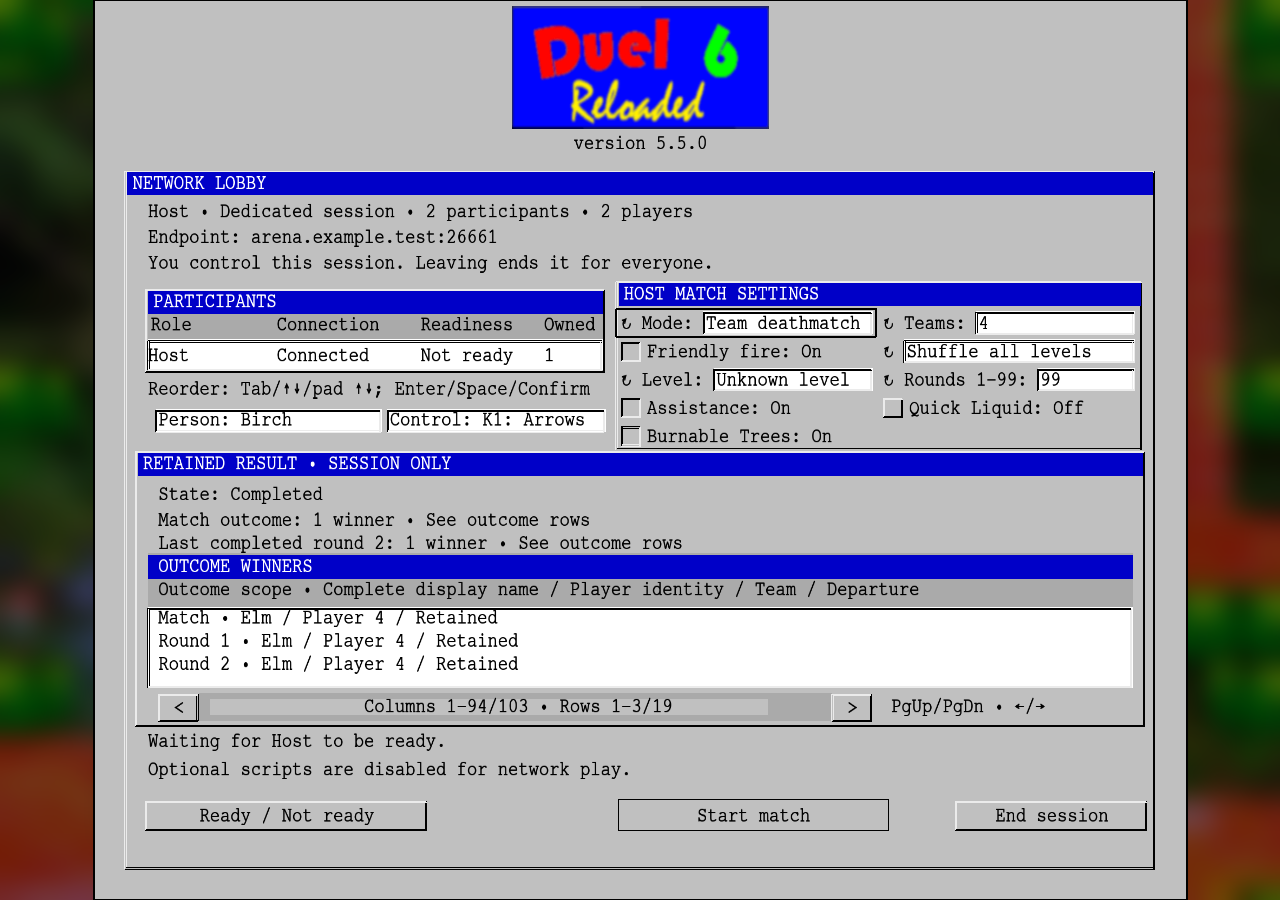
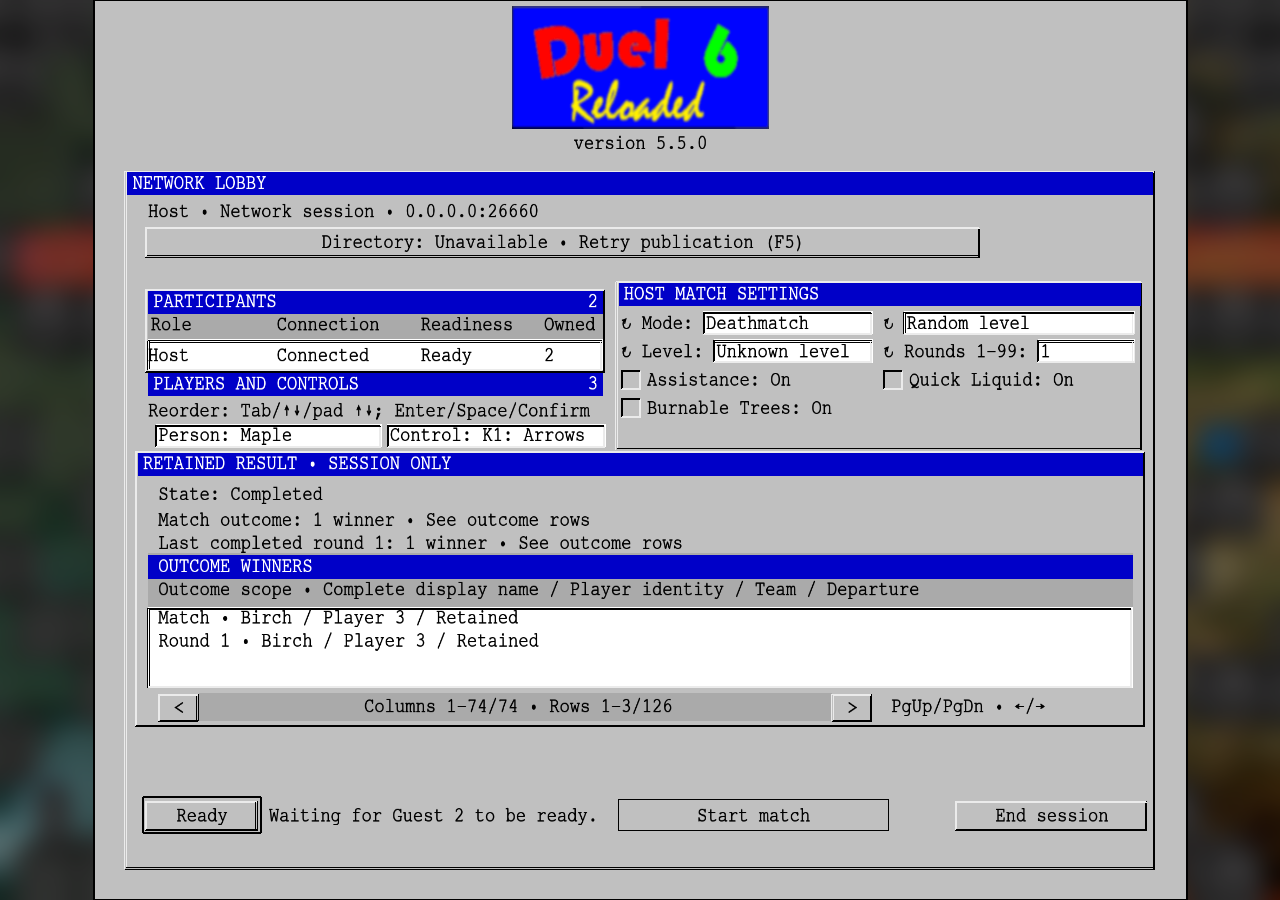
Integrate approved network lobby screenshots and assessment

diff --git a/docs/design/screenshots/README.md b/docs/design/screenshots/README.md
@@ -1464,7 +1464,7 @@ For each eventual image, supply the real nightly artifact identity and immutable
 
 This section is the sole current capture matrix for the NET-01 through NET-10 presentation unification. It supersedes every earlier network conformance claim in this file and the [legacy manifest](../../screenshots/README.md) for these affected wireframes. The older packets below remain historical references with their original hashes. They do not prove the unified presentation. No local-play representative is invalidated unless implementation changes its presentation source.
 
-**Current conformance: the five disabled-caption replacements conform under the [current assessment](#disabled-caption-current-assessment). Other representatives retain their existing scoped acceptance and capture lineage; native Mac conformance remains deferred and unassessed.** The [prior assessment](#current-native-visual-assessment) retains its historical source identities; it does not identify the five replacement bytes. The approved [shared visual baseline](../../design.md#unified-network-presentation) and [screen index](../README.md#screen-specifications) remain authoritative. The current matrix has 18 wireframes; NET-02-LA and NET-02-LE add popup variants without new functional screen identities. The former 16-row count in legacy UX-NET-AC-08 describes historical coverage, not a waiver for these two variants.
+**Current conformance:** The [NET-04 lobby refresh assessment](#net-04-lobby-refresh-current-assessment) identifies the current SS-018, SS-025, and constrained Guest originals. All other representatives retain their scoped acceptance and capture lineage, including the unaffected [disabled-caption replacements](#disabled-caption-current-assessment). Native Mac conformance remains deferred and unassessed. The [prior assessment](#current-native-visual-assessment) retains its historical source identities. The approved [shared visual baseline](../../design.md#unified-network-presentation) and [screen index](../README.md#screen-specifications) remain authoritative. The current matrix has 18 wireframes; NET-02-LA and NET-02-LE add popup variants without new functional screen identities. The former 16-row count in legacy UX-NET-AC-08 describes historical coverage, not a waiver for these two variants.
 
 ### Fixed criteria and scoped correction
 
@@ -1520,6 +1520,19 @@ All images are original lossless full-client 1280 × 900 PNGs at (0,0), with no 
[1 lines of base64/hex data omitted]
 
 Team supplied source closure and functional closure before capture, with successful Docker compilation and 54/54 routine runtime cases. These are supporting source-tied results, not UX-executed tests or independent QA. Stills do not prove activation, traversal, scrolling or temporal behavior. Disabled loading Refresh/Join selected, closed/stale admission blocking, non-activation, retained focus and bounds remain supported by focused checks, not extra images. Canonical match/round/tick IDs and the completed match's exact level/mirror were not logged; this is nonblocking for the supplied menu scope. No new other-viewport, physical-controller, native Mac or live cross-OS acceptance is claimed; existing deferrals remain unchanged.
+
+### NET-04 lobby refresh current assessment
+
+**Visual gate: satisfied** for candidate `1c25fb1c129f48d60502b64decfb25aed1d6059b` against the [lobby screen contract](../../screens/network-lobby.md) approved at `2d06187ab2c54dc4feee6c502bd911df6c4acfe2`, the unchanged candidate [NET-04 UX contract](../screens/NET-04.md), and its [NET-04](../wireframes/NET-04/NET-04.svg) and [NET-04-R](../wireframes/NET-04/NET-04-R.svg) wireframes. This assessment supersedes earlier hashes and conformance for these three destinations only. Links identify the existing destinations for exact integration, not the bytes present before integration.
+
+| Existing row | Client and capture time (2026-11-21 UTC) | Destination and developer-supplied SHA-256 | Visual finding |
+|---|---|---|---|
[3 lines of base64/hex data omitted]
+
[1 lines of base64/hex data omitted]
+- **Focused evidence and limits:** The supplied separate worker showed dedicated ordinary and retained Guest containment at 1280 × 720 and reported 1920 × 1080 pointer alignment for moved Control, Reorder and Ready targets (old positions inactive, visible targets functional). No additional permanent rows are required. Stills establish visible conformance, not input behavior or results-table coverage beyond the displayed rows. Unchanged behavior and other evidence retain their existing scope. Developer integrates the exact originals and verifies their hashes.
 
 ### NET-04 localized layout historical assessment
 
@@ -1592,8 +1605,8 @@ This matrix specifies reproduction targets; the current assessment below owns ea
 | NET-02-P / NET-02 / [NET-02-P](../wireframes/NET-02/NET-02-P.svg) | From valid NET-02, activate Start session; capture any actual pending-startup frame before confirmed readiness, including an unaltered full-client frame selected from native recording. | Starting session and timing help; Cancel focused; no editable setup, second Start, or success claim. No minimum display duration is required for the image. | 1280 × 900 | `docs/design/screenshots/NET-02/NET-02-P.png` |
 | NET-03-E / NET-03 / [NET-03-E](../wireframes/NET-03/NET-03-E.svg) | MENU-01 → Network (F2) → Join/browser → Direct connect; Oak/K1: Arrows; Address 127.0.0.1, Port 0 focused, empty Password. No admission started. | Conforms under the current disabled-caption assessment. Disabled flat Connect without suffix, persistent validation, direct-password help, setup panels and enabled Back remain distinct. | 1280 × 900 | `docs/design/screenshots/NET-03/NET-03-E.png` |
 | SS-017 / NET-03 / [NET-03](../../screens/wireframes/network-join.md) | Network → Direct connect; Address 127.0.0.1, Port 26660, two local persons/controls → Connect to an authorized owned listener that accepts transport but withholds a complete admission result. | Actual Connecting before its deadline; retained endpoint; two locked slot/person/control rows; truthful status and focused Cancel. | 1280 × 900 | `docs/design/screenshots/NET-03/NET-03.png` |
-| SS-018 / NET-04 / [NET-04](../wireframes/NET-04/NET-04.svg) | Network → Host → Start session; Maple host plus Oak guest admitted through browser Direct connect to 172.30.131.2:26660, one K1: Arrows slot each. Team deathmatch, 4 teams, Friendly fire/Assistance/Burnable Trees On, Quick Liquid Off, Shuffle all levels, Rounds 99. Host Ready, guest Not ready, Mode focused, real Directory Listed. Do not start the 99-round match. | Conforms under the current disabled-caption assessment. Aligned participant/roster/settings panels, full values, focus, ownership, readiness, directory feedback, script policy and footer remain contained. Disabled flat Start match has no suffix; its guest-readiness reason remains separate. | 1280 × 900; standard desktop input; scaled 850 × 700 logical canvas | `docs/design/screenshots/NET-04/NET-04.png` |
-| SS-025 / NET-04 / [NET-04-R](../wireframes/NET-04/NET-04-R.svg) | Same Maple/Oak session → actual two-round Deathmatch completed through normal gameplay → host Return to lobby. Restore SS-018 Team settings/toggles, Shuffle all levels and Rounds 99; host Ready, guest Not ready, Mode focus outside Reorder, real Directory Listed. Genuine history: round 1 Maple / Player 2; round 2 and match No winner. | Conforms under the current disabled-caption assessment. Compact settings, current membership, distinct State Completed/history through round 2, plain reorder help, result navigation/position, script policy and footer remain contained. Disabled flat Start match has no suffix and retains its readiness reason. | 1280 × 900; standard desktop input; scaled 850 × 700 logical canvas | `docs/design/screenshots/NET-04/NET-04-R.png` |
+| SS-018 / NET-04 / [NET-04](../wireframes/NET-04/NET-04.svg) | Actual player-hosted lobby with Directory Unavailable, Retry visible, unequal participant/player totals and Host not ready; see the [current assessment](#net-04-lobby-refresh-current-assessment) for the captured setup. | Bare title-strip totals, `Not ready` and the Host readiness reason beside it, and neither removed notice. Keep endpoint, Retry and existing lobby actions visible. | 1280 × 900; standard desktop input; scaled 850 × 700 logical canvas | `docs/design/screenshots/NET-04/NET-04.png` |
+| SS-025 / NET-04 / [NET-04-R](../wireframes/NET-04/NET-04-R.svg) | Same owned session after real completion and Host Return; Host ready, numbered Guest not ready. See the [current assessment and constrained Guest supplement](#net-04-lobby-refresh-current-assessment). | Current title-strip counts remain separate from Completed history. `Ready` and the named Guest readiness reason fit beside each other. Retained result navigation and the existing footer remain unobscured, with neither removed notice. | 1280 × 900; standard desktop input; scaled 850 × 700 logical canvas | `docs/design/screenshots/NET-04/NET-04-R.png` |
 | SS-019 / NET-05 / [NET-05](../../screens/wireframes/network-match.md) | Host plus guest, one slot each; actual Deathmatch on any supported shipped level; capture guest during active Connected play. The same two-round match may supply NET-05-S/R and NET-06. | Two-player complete shared arena; truthful Connected status; unchanged gameplay HUD; framed Leave session action. No mandatory Invisibility, degraded state, level, or mirror value. Record the actual state despite the historical filename. | 1280 × 900 | `docs/screenshots/NET-05/six-player-lan-degraded-1280x900.png` |
 | SS-026 / NET-05 / [NET-05-C](../wireframes/NET-05/NET-05-C.svg) | In actual guest active play, open Leave session with Escape; capture before acceptance; cancel after capture. | Bounded confirmation over arena; full consequence; Leave session focused before Cancel; both framed controls visible. | 1280 × 720 | `docs/design/screenshots/NET-05/NET-05-C.png` |
 | NET-05-S / NET-05 / [NET-05-S](../wireframes/NET-05/NET-05-S.svg) | Host plus guest, one slot each, in actual Deathmatch; before the first round has a winner, press Tab once. The common two-round setup may be reused. | Real pre-winner overlay; Session only/In progress and actual available values; fixed labels/body; optional truthful non-actionable position text; no enabled scroll-arrow affordance, new shortcut, focus target, or fabricated completed row. | 1280 × 900 | `docs/design/screenshots/NET-05/NET-05-S.png` |
